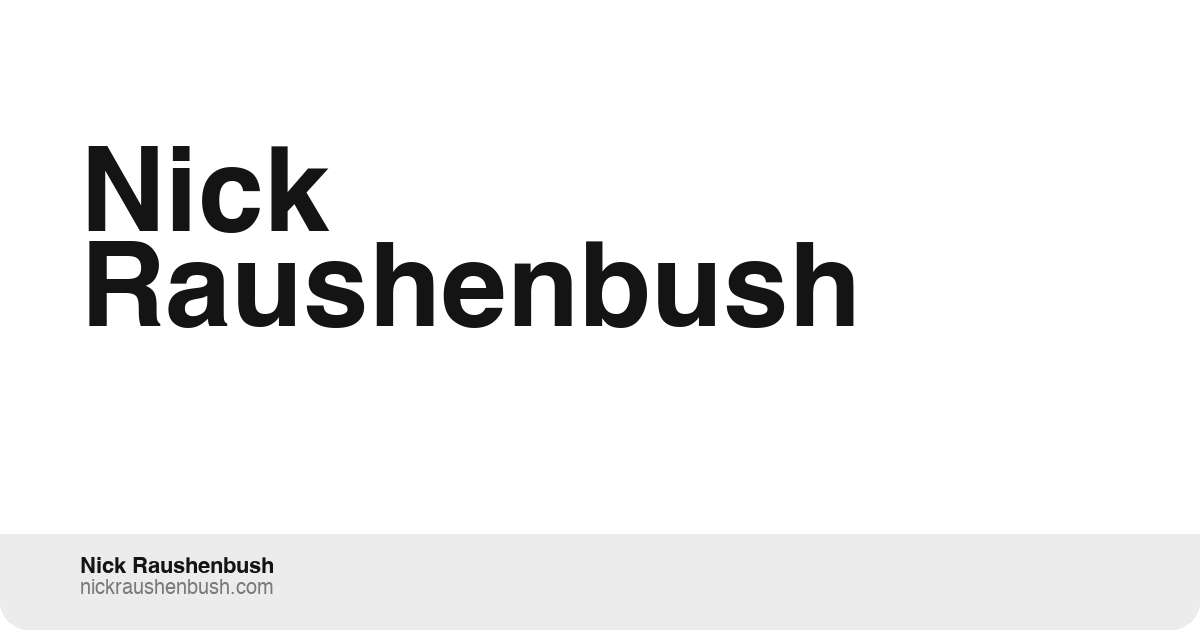
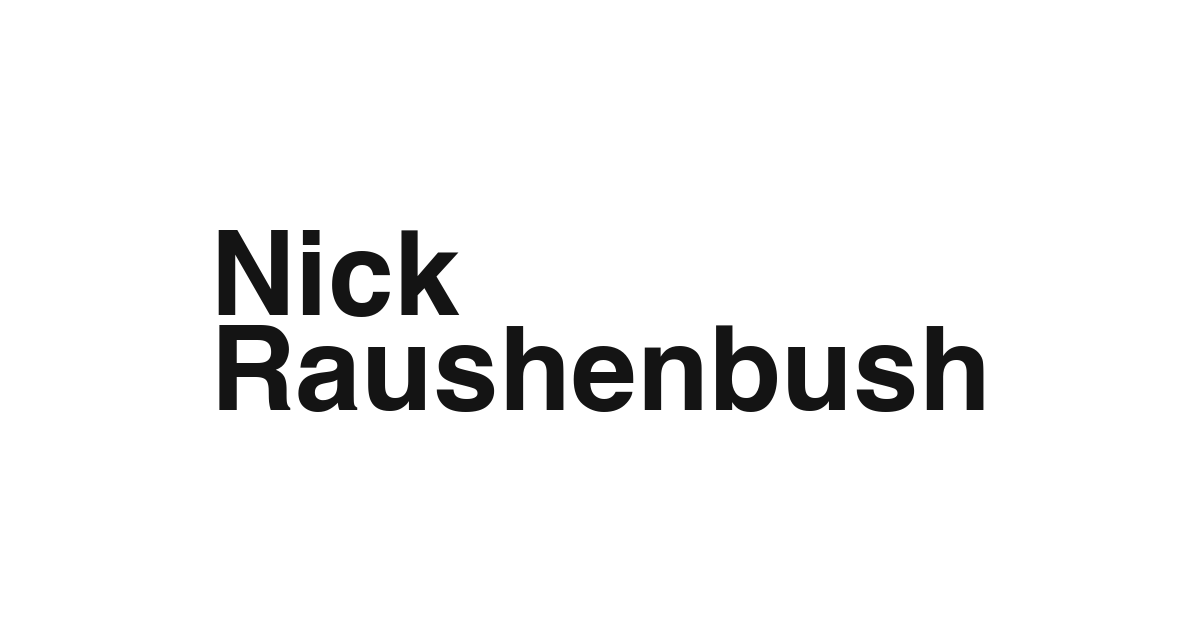
Simplify OG image: drop footer duplicate of link preview
Remove in-image name/URL strip; center headline on full card. Regenerate og-image.png and bump og/twitter image cache param.

Made-with: Cursor

Changed region(s): [[0.0617, 0.2111, 0.8325, 0.6635], [0.0617, 0.8746, 0.2467, 0.9651]]

diff --git a/blog/the-platform-risk-conundrum.html b/blog/the-platform-risk-conundrum.html
@@ -16,7 +16,7 @@
       content="Before Shopify&#39;s platform went supernova, my cofounder Finbarr and I grew Shogun (W18) to eight figure ARR by filling gaps in their product, and leaning into their ecosystem. As interest in Shopify soared in the public markets during COVID, so did interest in Shogun. We ended up raising over $100M in venture capital in less than 12 months."
     />
     <meta property="og:url" content="https://www.nickraushenbush.com/blog/the-platform-risk-conundrum.html" />
-    <meta property="og:image" content="https://www.nickraushenbush.com/og-image.png?v=20260326-site" />
+    <meta property="og:image" content="https://www.nickraushenbush.com/og-image.png?v=20260326-og-clean" />
     <meta property="og:image:width" content="1200" />
     <meta property="og:image:height" content="630" />
     <meta name="twitter:card" content="summary_large_image" />
@@ -25,7 +25,7 @@
       name="twitter:description"
       content="Before Shopify&#39;s platform went supernova, my cofounder Finbarr and I grew Shogun (W18) to eight figure ARR by filling gaps in their product, and leaning into their ecosystem. As interest in Shopify soared in the public markets during COVID, so did interest in Shogun. We ended up raising over $100M in venture capital in less than 12 months."
     />
-    <meta name="twitter:image" content="https://www.nickraushenbush.com/og-image.png?v=20260326-site" />
+    <meta name="twitter:image" content="https://www.nickraushenbush.com/og-image.png?v=20260326-og-clean" />
     <script>
       (function () {
         try {

diff --git a/blog/y-combinator-application-breakdown-and-guide.html b/blog/y-combinator-application-breakdown-and-guide.html
@@ -16,7 +16,7 @@
       content="Question by question breakdown of the Y Combinator application from a late stage YC alum. I get a decent amount of questions about the application process, and often review applications from folks in my network. A lot of the advice I give is redundant, so this is me &quot;open sourcing&quot; it for everyone."
     />
     <meta property="og:url" content="https://www.nickraushenbush.com/blog/y-combinator-application-breakdown-and-guide.html" />
-    <meta property="og:image" content="https://www.nickraushenbush.com/og-image.png?v=20260326-site" />
+    <meta property="og:image" content="https://www.nickraushenbush.com/og-image.png?v=20260326-og-clean" />
     <meta property="og:image:width" content="1200" />
     <meta property="og:image:height" content="630" />
     <meta name="twitter:card" content="summary_large_image" />
@@ -25,7 +25,7 @@
       name="twitter:description"
       content="Question by question breakdown of the Y Combinator application from a late stage YC alum. I get a decent amount of questions about the application process, and often review applications from folks in my network. A lot of the advice I give is redundant, so this is me &quot;open sourcing&quot; it for everyone."
     />
-    <meta name="twitter:image" content="https://www.nickraushenbush.com/og-image.png?v=20260326-site" />
+    <meta name="twitter:image" content="https://www.nickraushenbush.com/og-image.png?v=20260326-og-clean" />
     <script>
       (function () {
         try {

diff --git a/blog/how-to-run-a-strategic-seed-round-process.html b/blog/how-to-run-a-strategic-seed-round-process.html
@@ -16,7 +16,7 @@
       content="A big part of what makes Seed rounds unique is the SAFE note (popularized by Y Combinator), and the ability to increase the &quot;cap&quot; (read: &quot;valuation&quot;) to drive investment pressure. Here is a step by step guide for a strategic Seed round."
     />
     <meta property="og:url" content="https://www.nickraushenbush.com/blog/how-to-run-a-strategic-seed-round-process.html" />
-    <meta property="og:image" content="https://www.nickraushenbush.com/og-image.png?v=20260326-site" />
+    <meta property="og:image" content="https://www.nickraushenbush.com/og-image.png?v=20260326-og-clean" />
     <meta property="og:image:width" content="1200" />
     <meta property="og:image:height" content="630" />
     <meta name="twitter:card" content="summary_large_image" />
@@ -25,7 +25,7 @@
       name="twitter:description"
       content="A big part of what makes Seed rounds unique is the SAFE note (popularized by Y Combinator), and the ability to increase the &quot;cap&quot; (read: &quot;valuation&quot;) to drive investment pressure. Here is a step by step guide for a strategic Seed round."
     />
-    <meta name="twitter:image" content="https://www.nickraushenbush.com/og-image.png?v=20260326-site" />
+    <meta name="twitter:image" content="https://www.nickraushenbush.com/og-image.png?v=20260326-og-clean" />
     <script>
       (function () {
         try {

diff --git a/blog/y-combinator-interview-guide.html b/blog/y-combinator-interview-guide.html
@@ -16,7 +16,7 @@
       content="As a YC alum, I get a decent amount of questions about the interview process, and often conduct mock interviews for folks in my network. A lot of the YC interview advice I give is redundant, so this is me &quot;open sourcing&quot; it for everyone."
     />
     <meta property="og:url" content="https://www.nickraushenbush.com/blog/y-combinator-interview-guide.html" />
-    <meta property="og:image" content="https://www.nickraushenbush.com/og-image.png?v=20260326-site" />
+    <meta property="og:image" content="https://www.nickraushenbush.com/og-image.png?v=20260326-og-clean" />
     <meta property="og:image:width" content="1200" />
     <meta property="og:image:height" content="630" />
     <meta name="twitter:card" content="summary_large_image" />
@@ -25,7 +25,7 @@
       name="twitter:description"
       content="As a YC alum, I get a decent amount of questions about the interview process, and often conduct mock interviews for folks in my network. A lot of the YC interview advice I give is redundant, so this is me &quot;open sourcing&quot; it for everyone."
     />
-    <meta name="twitter:image" content="https://www.nickraushenbush.com/og-image.png?v=20260326-site" />
+    <meta name="twitter:image" content="https://www.nickraushenbush.com/og-image.png?v=20260326-og-clean" />
     <script>
       (function () {
         try {

diff --git a/blog/ceo-cliff-notes.html b/blog/ceo-cliff-notes.html
@@ -16,7 +16,7 @@
       content="My successor at Shogun asked me to include advice for a first time CEO in my transition docs. Here&#39;s what helped me keep my head on straight in a role that could at times feel disorienting:"
     />
     <meta property="og:url" content="https://www.nickraushenbush.com/blog/ceo-cliff-notes.html" />
-    <meta property="og:image" content="https://www.nickraushenbush.com/og-image.png?v=20260326-site" />
+    <meta property="og:image" content="https://www.nickraushenbush.com/og-image.png?v=20260326-og-clean" />
     <meta property="og:image:width" content="1200" />
     <meta property="og:image:height" content="630" />
     <meta name="twitter:card" content="summary_large_image" />
@@ -25,7 +25,7 @@
       name="twitter:description"
       content="My successor at Shogun asked me to include advice for a first time CEO in my transition docs. Here&#39;s what helped me keep my head on straight in a role that could at times feel disorienting:"
     />
-    <meta name="twitter:image" content="https://www.nickraushenbush.com/og-image.png?v=20260326-site" />
+    <meta name="twitter:image" content="https://www.nickraushenbush.com/og-image.png?v=20260326-og-clean" />
     <script>
       (function () {
         try {

diff --git a/blog/defining-product-market-fit.html b/blog/defining-product-market-fit.html
@@ -16,7 +16,7 @@
       content="The true test of Product Market Fit is asking this 2 part question of your startup: is the growth so great that it&#39;s almost killing you, and is it profitable?"
     />
     <meta property="og:url" content="https://www.nickraushenbush.com/blog/defining-product-market-fit.html" />
-    <meta property="og:image" content="https://www.nickraushenbush.com/og-image.png?v=20260326-site" />
+    <meta property="og:image" content="https://www.nickraushenbush.com/og-image.png?v=20260326-og-clean" />
     <meta property="og:image:width" content="1200" />
     <meta property="og:image:height" content="630" />
     <meta name="twitter:card" content="summary_large_image" />
@@ -25,7 +25,7 @@
       name="twitter:description"
       content="The true test of Product Market Fit is asking this 2 part question of your startup: is the growth so great that it&#39;s almost killing you, and is it profitable?"
     />
-    <meta name="twitter:image" content="https://www.nickraushenbush.com/og-image.png?v=20260326-site" />
+    <meta name="twitter:image" content="https://www.nickraushenbush.com/og-image.png?v=20260326-og-clean" />
     <script>
       (function () {
         try {

diff --git a/index.html b/index.html
@@ -18,7 +18,7 @@
     <meta property="og:url" content="https://www.nickraushenbush.com/" />
     <meta
       property="og:image"
-      content="https://www.nickraushenbush.com/og-image.png?v=20260326-site"
+      content="https://www.nickraushenbush.com/og-image.png?v=20260326-og-clean"
     />
     <meta property="og:image:width" content="1200" />
     <meta property="og:image:height" content="630" />
@@ -30,7 +30,7 @@
     />
     <meta
       name="twitter:image"
-      content="https://www.nickraushenbush.com/og-image.png?v=20260326-site"
+      content="https://www.nickraushenbush.com/og-image.png?v=20260326-og-clean"
     />
     <script>
       (function () {

diff --git a/scripts/generate_og_image.py b/scripts/generate_og_image.py
@@ -1,7 +1,7 @@
 #!/usr/bin/env python3
 # Regenerate the default Open Graph image (1200x630).
-# Matches site.css light theme: --bg #fff, --text #141414, --muted #7a7a7a, --line feel.
-# Layout inspired by large stacked name + footer strip (see site --sans stack).
+# Matches site.css light theme: --bg #fff, --text #141414.
+# Name only — platforms already show title and domain in the link preview.
 # Requires: pip install pillow
 # Run from repo root: python3 scripts/generate_og_image.py
 
@@ -10,7 +10,7 @@ from __future__ import annotations
 import sys
 from pathlib import Path
 
-from PIL import Image, ImageChops, ImageDraw, ImageFont
+from PIL import Image, ImageDraw, ImageFont
 
 ROOT = Path(__file__).resolve().parent.parent
 INTER_PATH = ROOT / "assets" / "fonts" / "InterVariable.ttf"
@@ -19,20 +19,12 @@ OUTPUT = ROOT / "og-image.png"
 # Mirrors :root in site.css (light theme)
 BG = (255, 255, 255)  # --bg
 TEXT = (20, 20, 20)  # --text #141414
-MUTED = (122, 122, 122)  # --muted #7a7a7a
-# ~ rgba(20,20,20,0.08) on white
-FOOTER_BG = (236, 236, 236)
 
 WIDTH, HEIGHT = 1200, 630
 CORNER_R = 28
-FOOTER_H = 96
-PAD_X = 80
-PAD_TOP = 72
 
 LINE1 = "Nick"
 LINE2 = "Raushenbush"
-FOOTER_NAME = "Nick Raushenbush"
-FOOTER_URL = "nickraushenbush.com"
 
 
 def _try_truetype(path: str, size: int, index: int = 0) -> ImageFont.FreeTypeFont | None:
@@ -75,7 +67,6 @@ def text_size(draw: ImageDraw.ImageDraw, text: str, font: ImageFont.ImageFont) -
 
 
 def main() -> None:
-    # Rounded “card” on transparent (previews that use a gray canvas show the corners).
     card_mask = Image.new("L", (WIDTH, HEIGHT), 0)
     ImageDraw.Draw(card_mask).rounded_rectangle(
         (0, 0, WIDTH - 1, HEIGHT - 1), radius=CORNER_R, fill=255
@@ -85,41 +76,22 @@ def main() -> None:
     white = Image.new("RGBA", (WIDTH, HEIGHT), (*BG, 255))
     img.paste(white, (0, 0), card_mask)
 
-    footer_band = Image.new("L", (WIDTH, HEIGHT), 0)
-    ImageDraw.Draw(footer_band).rectangle((0, HEIGHT - FOOTER_H, WIDTH, HEIGHT), fill=255)
-    footer_mask = ImageChops.multiply(card_mask, footer_band)
-    grey = Image.new("RGBA", (WIDTH, HEIGHT), (*FOOTER_BG, 255))
-    img.paste(grey, (0, 0), footer_mask)
-
     draw = ImageDraw.Draw(img)
 
-    # Large stacked name (sans, site-like), vertically centered in area above footer
-    cream_bottom = HEIGHT - FOOTER_H
-    headline = load_sans(118, bold=True)
-    # Slightly smaller second line if needed for balance
-    line1_font = headline
+    line1_font = load_sans(118, bold=True)
     line2_font = load_sans(118, bold=True)
 
     w1, h1 = text_size(draw, LINE1, line1_font)
     w2, h2 = text_size(draw, LINE2, line2_font)
     gap = 8.0
     block_h = h1 + gap + h2
-    y0 = (cream_bottom - PAD_TOP - block_h) / 2
-    if y0 < PAD_TOP:
-        y0 = float(PAD_TOP)
+    max_w = max(w1, w2)
+    x0 = (WIDTH - max_w) / 2
+    y0 = (HEIGHT - block_h) / 2
 
-    draw.text((PAD_X, y0), LINE1, font=line1_font, fill=TEXT)
-    draw.text((PAD_X, y0 + h1 + gap), LINE2, font=line2_font, fill=TEXT)
+    draw.text((x0, y0), LINE1, font=line1_font, fill=TEXT)
+    draw.text((x0, y0 + h1 + gap), LINE2, font=line2_font, fill=TEXT)
 
-    # Footer: name (semibold-ish) + URL (muted)
-    foot_name_font = load_sans(22, bold=True)
-    foot_url_font = load_sans(20, bold=False)
-    fy = float(HEIGHT - FOOTER_H + 22)
-    draw.text((PAD_X, fy), FOOTER_NAME, font=foot_name_font, fill=TEXT)
-    _, nh = text_size(draw, FOOTER_NAME, foot_name_font)
-    draw.text((PAD_X, fy + nh + 6), FOOTER_URL, font=foot_url_font, fill=MUTED)
-
-    # Flatten to RGB on white for maximum crawler compatibility
     flat = Image.new("RGB", (WIDTH, HEIGHT), BG)
     flat.paste(img, (0, 0), img.split()[3])
     flat.save(OUTPUT, "PNG", optimize=True)

diff --git a/scripts/build_posts.rb b/scripts/build_posts.rb
@@ -7,7 +7,7 @@ require "fileutils"
 
 ROOT = File.expand_path("..", __dir__)
 SITE_ORIGIN = "https://www.nickraushenbush.com"
-OG_IMAGE_URL = "#{SITE_ORIGIN}/og-image.png?v=20260326-site"
+OG_IMAGE_URL = "#{SITE_ORIGIN}/og-image.png?v=20260326-og-clean"
 SOURCE_DIR = File.join(ROOT, "sources")
 BLOG_DIR = File.join(ROOT, "blog")
 INDEX_PATH = File.join(ROOT, "index.html")
